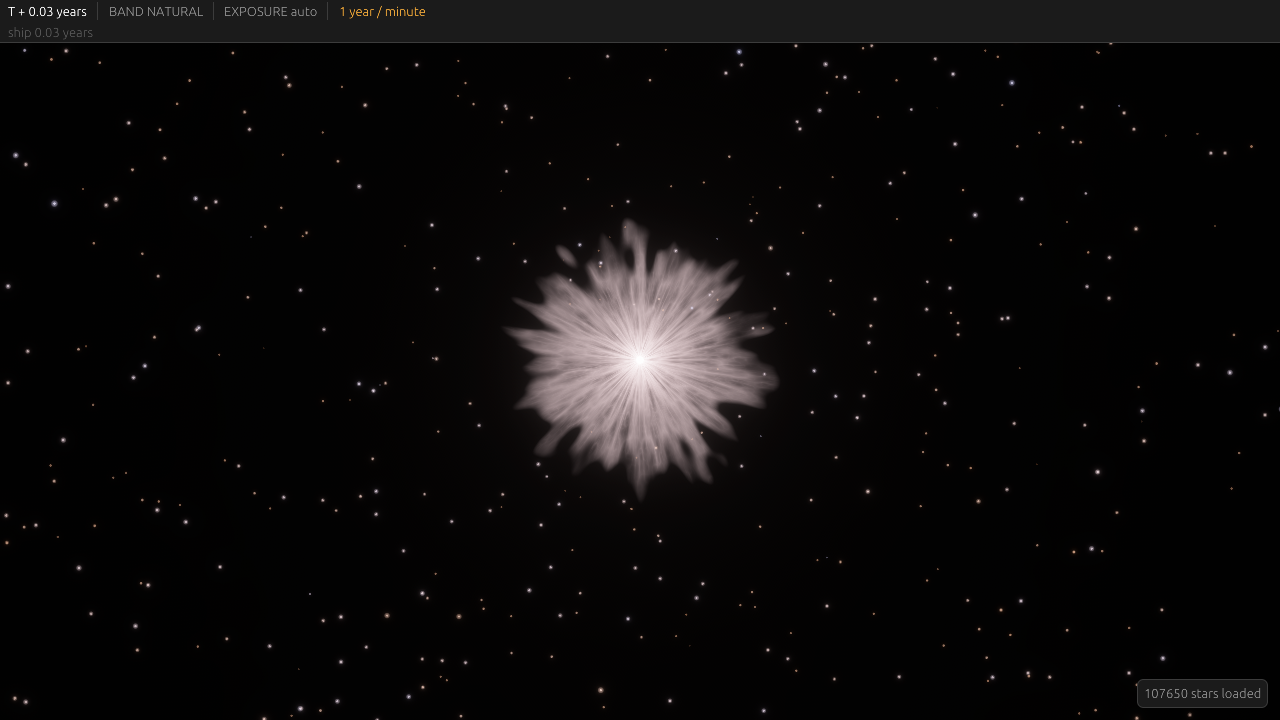
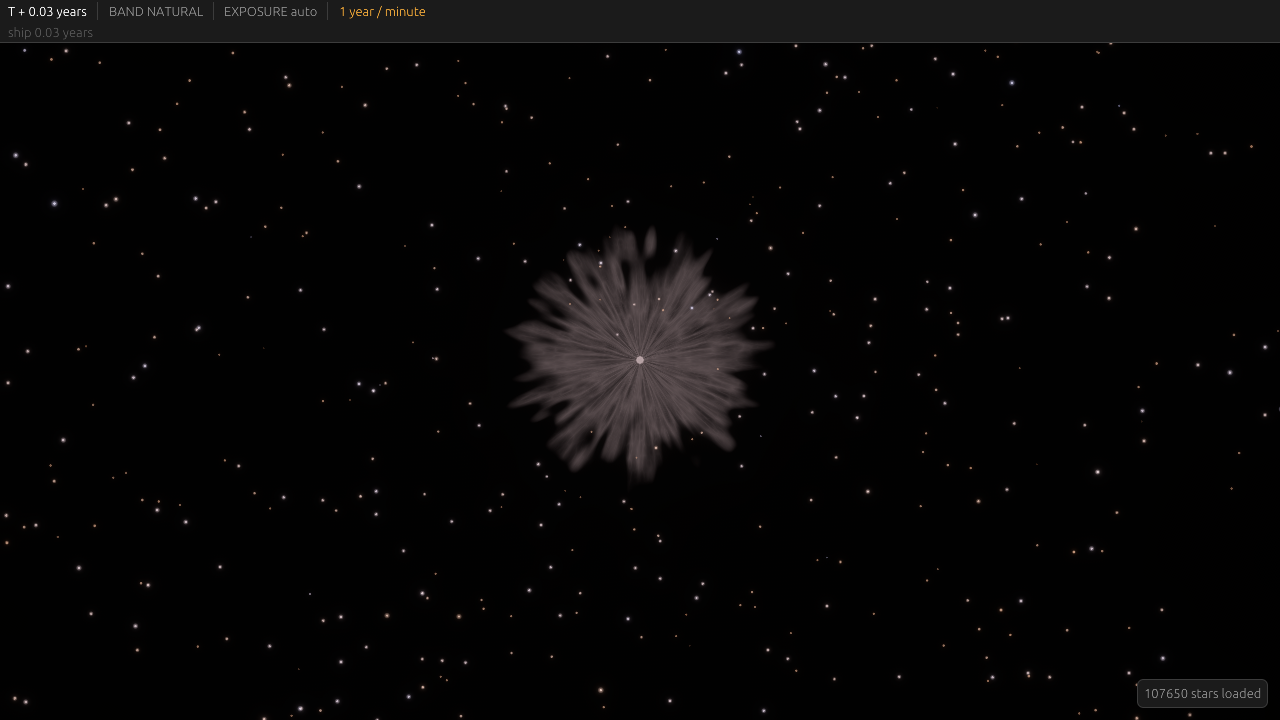
Starfield values as tuned
Local star: brightness 0.2, overflow 0.1, halo gain 0.15, halo falloff 0.16,
corona frequency 12. Found by dragging the sliders against a live star, which is
the only way to choose them. The background pass is untouched.

The falloff wanted a value below what its slider offered, so that range now
reaches 0.05. A falloff under 1 is a broad flat glow rather than one collapsing
onto the core, and nothing said in advance that it would be the look wanted.

Two tests had to go, and it is worth saying why rather than just deleting them.
They asserted the local pass carried more overflow and more glare than the
background. That was a belief about how it would look, written as though it were
a requirement, and tuning against a live star overturned it: the local star now
carries less. What actually has to hold is that the two are separable in size and
that the local one is larger. Everything else is taste and belongs on a slider,
not in an assertion.

Changed region(s): [[0.4062, 0.3056, 0.625, 0.6722]]

diff --git a/crates/lc-client/src/starfield.rs b/crates/lc-client/src/starfield.rs
@@ -93,7 +93,9 @@ pub const KNOBS: [(&str, fn(&mut PointStyle) -> &mut f32, f32, f32); 14] = [
     ("brightness", |s| &mut s.brightness, 0.0, 6.0),
     ("overflow per stop", |s| &mut s.overflow_gain, 0.0, 6.0),
     ("halo gain", |s| &mut s.halo_gain, 0.0, 2.0),
-    ("halo falloff", |s| &mut s.halo_falloff, 0.4, 4.0),
+    // Down to almost nothing: a falloff under 1 is a broad flat glow rather than a tight one,
+    // and the value that looked right was below the range this slider first offered.
+    ("halo falloff", |s| &mut s.halo_falloff, 0.05, 4.0),
     ("corona strength", |s| &mut s.corona_strength, 0.0, 1.0),
     ("corona frequency", |s| &mut s.corona_frequency, 1.0, 60.0),
     ("reach shortest", |s| &mut s.corona_reach_min, 0.0, 0.9),
@@ -129,14 +131,16 @@ pub const LOCAL: PointStyle = PointStyle {
     min_px: 4.0,
     max_px: 26.0,
     glow_radius_gain: 1.4,
-    overflow_gain: 2.0,
-    brightness: 1.6,
-    halo_gain: 0.22,
-    halo_falloff: 1.25,
+    overflow_gain: 0.1,
+    brightness: 0.2,
+    halo_gain: 0.15,
+    // Well under 1: the glare falls off slowly and stays broad rather than collapsing onto the
+    // core. Tuned by eye against a live star, which is the only way to choose it.
+    halo_falloff: 0.16,
     corona_strength: 0.95,
     // Streamers per radian of sky. Halving this halves their number and doubles their width,
     // which is the single lever that matters for how a corona reads.
-    corona_frequency: 11.0,
+    corona_frequency: 12.0,
     corona_reach_min: 0.20,
     corona_reach_span: 0.50,
     corona_fade: 0.28,
@@ -664,7 +668,12 @@ mod tests {
     fn the_background_stays_small_and_a_local_star_is_allowed_to_dominate() {
         assert!(DISTANT.max_px < 4.0, "a background star must not become a ball");
         assert!(LOCAL.min_px > DISTANT.max_px, "the two ranges should not even overlap");
-        assert!(LOCAL.overflow_gain > DISTANT.overflow_gain * 4.0, "glare is the local star's");
+        // Deliberately nothing here about which pass is brighter or glares more. An earlier
+        // version asserted the local star carried more overflow, which was a belief about how
+        // it would look rather than a requirement, and tuning against a live star overturned
+        // it. What has to hold is that the two are separable in size and that the local one is
+        // the larger; everything else is taste and belongs on a slider.
+        assert_ne!(LOCAL, DISTANT);
     }
 
     #[test]
@@ -689,7 +698,6 @@ mod tests {
         let far = uniforms(&s, DVec3::ZERO, lut_scale(), rad, DISTANT);
         let near = uniforms(&s, DVec3::ZERO, lut_scale(), rad, LOCAL);
         assert!(near.max_radius_rad > far.max_radius_rad * 5.0);
-        assert!(near.overflow_gain > far.overflow_gain);
         // But they read the same sky: same exposure, same velocity, same table.
         assert_eq!(near.reference, far.reference);
         assert_eq!(near.beta, far.beta);
